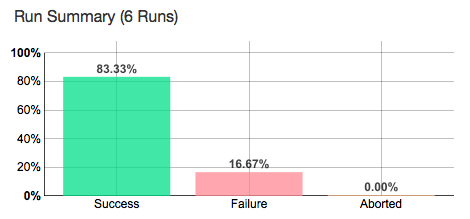
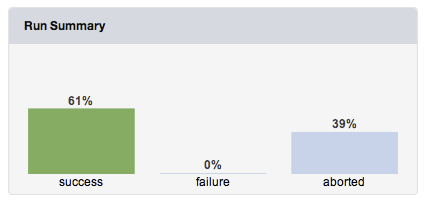
update webui task topics

diff --git a/chef_master/source/server_webui_tasks.rst b/chef_master/source/server_webui_tasks.rst
@@ -367,33 +367,17 @@ Show Runs for Date Range
 -----------------------------------------------------
 .. include:: ../../step_manage_webui/step_manage_webui_reports_dashboard_show_runs.rst
 
-View Finished Runs
+View Run Counts
 -----------------------------------------------------
-.. include:: ../../step_manage_webui/step_manage_webui_reports_dashboard_view_finished_runs.rst
+.. include:: ../../step_manage_webui/step_manage_webui_reports_dashboard_view_run_counts.rst
 
-View Failed Runs
+View Run Durations
 -----------------------------------------------------
-.. include:: ../../step_manage_webui/step_manage_webui_reports_dashboard_view_number_of_failed_runs.rst
+.. include:: ../../step_manage_webui/step_manage_webui_reports_dashboard_view_run_durations.rst
 
-View Succcessful Runs
------------------------------------------------------
-.. include:: ../../step_manage_webui/step_manage_webui_reports_dashboard_view_number_of_successful_runs.rst
-
-View Run Summary
+View Runs Summary
 -----------------------------------------------------
 .. include:: ../../step_manage_webui/step_manage_webui_reports_dashboard_view_run_summary.rst
-
-View Runs Still Running
------------------------------------------------------
-.. include:: ../../step_manage_webui/step_manage_webui_reports_dashboard_view_runs_still_running.rst
-
-View Runs with Errors
------------------------------------------------------
-.. include:: ../../step_manage_webui/step_manage_webui_reports_dashboard_view_runs_with_errors.rst
-
-View Time Elapsed
------------------------------------------------------
-.. include:: ../../step_manage_webui/step_manage_webui_reports_dashboard_view_time_elapsed_for_completed_runs.rst
 
 View Dashboard
 -----------------------------------------------------

diff --git a/step_manage_webui/step_manage_webui_reports_dashboard_view_run_durations.rst b/step_manage_webui/step_manage_webui_reports_dashboard_view_run_durations.rst
@@ -1,0 +1,19 @@
+.. This is an included how-to. 
+
+
+To view |chef client| runs with errors:
+
+#. Log on to |opscode manage|.
+#. Click |opscode manage reports|.
+#. Click |opscode manage reports_dashboard|.
+#. The |chef client| runs with errors are shown under the |opscode manage reports_name_durations| header:
+
+   .. image:: ../../images/step_manage_webui_reports_dashboard_view_run_durations.png
+
+   Hover over duration values to see the number of associated runs:
+
+   .. image:: ../../images/step_manage_webui_reports_dashboard_view_run_durations_hover.png
+
+   Select (or de-select) ``success``, ``failure``, and ``aborted`` to filter the view to only specific run outcomes:
+
+   .. image:: ../../images/step_manage_webui_reports_dashboard_view_dashboard_common_outcomes.png

diff --git a/step_manage_webui/step_manage_webui_reports_dashboard_show_runs.rst b/step_manage_webui/step_manage_webui_reports_dashboard_show_runs.rst
@@ -6,4 +6,6 @@ To show a specific set of |chef client| runs:
 #. Log on to |opscode manage|.
 #. Click |opscode manage reports|.
 #. Click |opscode manage reports_dashboard|.
-#. Select the range for which runs will be shown: all runs that occurred in the last 3 months, the last month, the last week, the last twenty-four hours, after a specific date, or between two specific dates.
+#. Select the range for which runs will be shown: all runs that occurred in the last 3 months, the last month, the last week, the last twenty-four hours, after a specific date, or between two specific dates:
+
+   .. image:: ../../images/step_manage_webui_reports_dashboard_show_runs.png

diff --git a/step_manage_webui/step_manage_webui_reports_dashboard_view_run_counts.rst b/step_manage_webui/step_manage_webui_reports_dashboard_view_run_counts.rst
@@ -1,0 +1,15 @@
+.. This is an included how-to. 
+
+
+To view |chef client| runs still running:
+
+#. Log on to |opscode manage|.
+#. Click |opscode manage reports|.
+#. Click |opscode manage reports_dashboard|.
+#. The |chef client| runs that are still running are shown under the |opscode manage reports_name_counts| header:
+
+   .. image:: ../../images/step_manage_webui_reports_dashboard_view_run_counts.png
+
+   Select (or de-select) ``success``, ``failure``, and ``aborted`` to filter the view to only specific run outcomes:
+
+   .. image:: ../../images/step_manage_webui_reports_dashboard_view_dashboard_common_outcomes.png

diff --git a/step_manage_webui/step_manage_webui_reports_dashboard_view_run_summary.rst b/step_manage_webui/step_manage_webui_reports_dashboard_view_run_summary.rst
@@ -10,4 +10,6 @@ To view the |chef client| runs summary:
 
    .. image:: ../../images/step_manage_webui_reports_dashboard_view_run_summary.png
 
-   .. image:: ../../images/step_manage_webui_reports_dashboard_view_run_summary_graph.png
+
+
+
